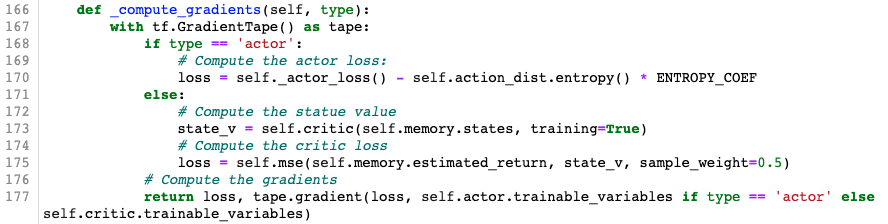
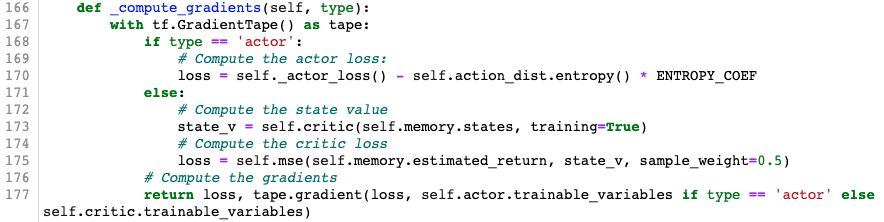
Report + gru screenshots

diff --git a/coordinator.py b/coordinator.py
@@ -169,7 +169,7 @@ class Coordinator:
                 # Compute the actor loss: 
                 loss = self._actor_loss() - self.action_dist.entropy() * ENTROPY_COEF
             else:
-                # Compute the statue value
+                # Compute the state value
                 state_v = self.critic(self.memory.states, training=True)
                 # Compute the critic loss
                 loss = self.mse(self.memory.estimated_return, state_v, sample_weight=0.5)

diff --git a/report.md b/report.md
@@ -210,33 +210,43 @@ Now it is time for the coordinator to utilize these memories to make the agents 
 
 ![*Figure 13: coordinator.py train*](report_screenshots/coordinator.py_train.png)
 
-We do this by first computing the discounted cummulative return **(Figure 13 line 76)**. As described in the theoretical background, our goal is to maximize the cumulative discounted return at each timestep. For each memory object, we store it in the attribute `self.estimated_return` **(Figure 14)**. Concatenating all the made observations accross all agents can then be done using the sum function **(Figure 13 line 77)**, as we have adjusted the memory class's `__add__` behavior method, i.e. what happens when adding two memory objects together, namely that their observations are concatenated.
+We do this by first computing the discounted cumulative return **(Figure 13 line 76)**. As described in the theoretical background, our goal is to maximize the cumulative discounted return at each timestep. For each memory object, we store this in the attribute `self.estimated_return` **(Figure 14)**.  Concatenating all the made observations accross all agents can then be done using the sum function **(Figure 13 line 77)**, as we have adjusted the memory class's `__add__` behavior method, i.e. what happens when adding two memory objects together, namely that their observations are concatenated.
+
+*
+index set to end, because list of obs is reversed
+if last state is terminal
+else use estimate from critic
+for: obs von hinten durchgehen
+   reward + last cum return discounted by gamma
+   estimated return only depends on rewards of following states not of the ones before
    
+   reward1 + 0
+   reward2 + gamma * reward1
+   reward3 + gamma * (reward2 + gamma * reward1) = reward3 + gamma * reward2 + gamma^2 * reward1
+*  
 ![*Figure 14: memory.py compute_discounted_cum_return*](report_screenshots/memory.py_compute_return.png)
 
 The memory object of the coordinator now contains the collective memory of all agents and their discounted returns. These are needed to compute the actor loss and critic loss, which we want to minimize, so we compute their gradients. This is coordinated by the `_get_mean_gradients()` function **(Figure 13 line 80, Figure 15)**. Since we have two networks, two gradients are computed: The policy gradients minimize the actor loss, therefore maximizing the estimated return **(Figure 15 line 161)** and the critic gradients minimize the critic loss, which will minimize the Mean Squared Error for the state value function **(Figure 15 line 163)**. 
 
-![*Figure 15: coordinator.py _get_mean_gradients*](report_screenshots/coordinator.py_get_gradients.png)  
+![*Figure 15: coordinator.py get_mean_gradients*](report_screenshots/coordinator.py_get_gradients.png)  
 
 Let's look at how we calculate the two losses. Firstly, we see that the final actor loss **(Figure 16 line 170)** is adjusted by an entropy term. Adding the entropy term to the actor loss has been found to improve exploration, which minimizes the risk of convergence to an only locally optimal policy ([A3C paper][A3C] page 4). This adds a new hyperparameter, the entropy coefficient (`ENTROPY_COEF`), which balances the amount of exploration. 
 
-![*Figure 16: coordinator.py _compute_gradients*](report_screenshots/coordinator.py_compute_gradients.png)  
+![*Figure 16: coordinator.py compute_gradients*](report_screenshots/coordinator.py_compute_gradients.png)  
 
 The unmodified actor loss is returned from our `_actor_loss` method, which first estimates the state value by passing all states to the critic **(Figure 3)**. In the Lunar Lander environment, a state is a vector of 8 values, denoting different aspects within the environment, e.g. the coordinates of the vessel. So our critic takes this state vector as an input and outputs the state value. Applying L2-regularization has improved our critic loss during training **(Figure 3 line 10)**.  
 The state values are now used to get an estimate of the advantage **(Figure 17 line 183)**.
 But our actor loss also consists of a second part. As described in the theoretical background, our actor gradients are updated via $d\theta = d\theta + A_w\nabla_\theta \ln{\pi_{\theta}}$. We have the advantage $A_w$, now we need to compute the log policy probability $\ln{\pi_\theta}$. Here's how:   
 Using our previously mentioned `get_action_distribution` function (**Figure 10**), we recompute the normal distributions that we sampled our performed actions in each respective state from **(Figure 17 line 186)**.  Inputting the recorded action back into the normal distribution's log probability density function returns us the relative log probability $\ln{\pi_\theta}$ of sampling that action **(Figure 17 line 187)**. 
 
-![*Figure 17: coorndinator.py _actor_loss*](report_screenshots/coordinator.py_actor_loss.png)
+![*Figure 17: coordinator.py actor_loss*](report_screenshots/coordinator.py_actor_loss.png)
+
+Our actor loss therefore consists of the log probability and the advantage, which is used as a baseline for the log probability here to reduce the variance of the policy gradients ([A3C paper][A3C] page 3). These gradients must still be computed from the actor loss, which we do using the tensorflow gradient tape **(Figure 16 line 177)**.  
+Having finished computing the policy gradients, we now move on to the critic gradients **(Figure 15 line 163)**. For those we calculate the Mean Squared Error between the estimated returns and the state values **(Figure 16 line 175)** 
 
 * apply_gradients to the networks in line 80-81
 
-* the part storing summary statistics  
-
-* the part with checkpoints
-
-
-**how to run training and testing?**
+**how to run training and testing? checkpoints**
  
 ### Visualization and results
 
